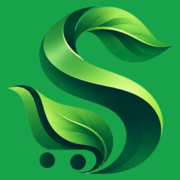
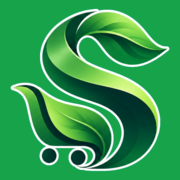
yangi logodagi web app v2

diff --git a/frontend/src/index.css b/frontend/src/index.css
@@ -325,14 +325,9 @@ a.card:hover, button.card:hover { transform: translateY(-2px); box-shadow: var(-
 .app-logo-mark {
   width: 30px;
   height: 30px;
-  border-radius: 9px;
-  background: var(--color-primary);
-  color: #fff;
-  display: flex;
-  align-items: center;
-  justify-content: center;
-  font-family: var(--font-sans);
-  font-weight: 800;
+  object-fit: contain;
+  flex-shrink: 0;
+  display: block;
 }
 .app-location {
   display: flex;
@@ -502,7 +497,7 @@ a.card:hover, button.card:hover { transform: translateY(-2px); box-shadow: var(-
 
 /* --- Auth pages --- */
 .auth-page { max-width: 420px; padding-top: var(--sp-7); }
-.auth-mark { width: 52px; height: 52px; border-radius: 16px; font-size: 1.4rem; margin-bottom: var(--sp-4); }
+.auth-mark { width: 52px; height: 52px; margin-bottom: var(--sp-4); }
 
 /* --- Home: banner --- */
 .home-banner-scroll { display: flex; gap: var(--sp-3); overflow-x: auto; scroll-snap-type: x mandatory; padding-bottom: 2px; }

diff --git a/frontend/src/pages/seller/SellerLayout.jsx b/frontend/src/pages/seller/SellerLayout.jsx
@@ -2,6 +2,7 @@ import { NavLink, Outlet, Link } from 'react-router-dom';
 import { useAuth } from '../../context/AuthContext';
 import { usePreviewNotice } from '../../context/PreviewNoticeContext';
 import { STORE_STATUS_LABELS } from '../../utils/format';
+import logo from '../../assets/logo.png';
 import {
   HomeIcon, PackageIcon, ReceiptIcon, UsersIcon, ChartIcon, SettingsIcon, StoreIcon,
 } from '../../components/Icons';
@@ -21,7 +22,7 @@ export default function SellerLayout() {
     <div className="seller-shell">
       <aside className="seller-sidebar">
         <Link to="/" className="app-logo" style={{ padding: '0 var(--sp-3)', marginBottom: 'var(--sp-4)' }}>
-          <span className="app-logo-mark">S</span>
+          <img src={logo} alt="" className="app-logo-mark" />
           <span className="nav-label-full">SuxonaShop</span>
         </Link>
 

diff --git a/frontend/src/pages/customer/Login.jsx b/frontend/src/pages/customer/Login.jsx
@@ -2,6 +2,7 @@ import { useState } from 'react';
 import { Link, useLocation, useNavigate } from 'react-router-dom';
 import { useAuth } from '../../context/AuthContext';
 import { extractErrorMessage } from '../../api/client';
+import logo from '../../assets/logo.png';
 
 export default function Login() {
   const { login } = useAuth();
@@ -29,7 +30,7 @@ export default function Login() {
 
   return (
     <div className="container page auth-page">
-      <div className="app-logo-mark auth-mark">S</div>
+      <img src={logo} alt="SuxonaShop" className="app-logo-mark auth-mark" />
       <h1>Xush kelibsiz</h1>
       <p style={{ marginBottom: 'var(--sp-5)' }}>Hisobingizga kiring va xaridni davom ettiring.</p>
 

diff --git a/frontend/src/components/Header.jsx b/frontend/src/components/Header.jsx
@@ -4,6 +4,7 @@ import { SearchIcon, BellIcon, PinIcon } from './Icons';
 import { useAuth } from '../context/AuthContext';
 import { usePreviewNotice } from '../context/PreviewNoticeContext';
 import { addressApi } from '../api/endpoints';
+import logo from '../assets/logo.png';
 
 export default function Header() {
   const { user } = useAuth();
@@ -38,7 +39,7 @@ export default function Header() {
     <header className="app-header">
       <div className="container app-header-top">
         <Link to="/" className="app-logo">
-          <span className="app-logo-mark">S</span>
+          <img src={logo} alt="" className="app-logo-mark" />
           <span>SuxonaShop</span>
         </Link>
 

diff --git a/frontend/README.md b/frontend/README.md
@@ -123,17 +123,25 @@ Dastlabki versiyadan keyin, real loyiha sifatida qo'yilishi uchun quyidagilar qo
   bo'lib qolayotgan edi (`object-fit: contain` 24×24 o'lchamda, doira esa
   56×56 — fon rangi atrofida qolib ketardi). Endi rasm doirani to'liq
   qoplaydi (`object-fit: cover`, 100%×100%, `overflow: hidden`).
-- **Loyiha logotipi almashtirildi** — foydalanuvchi tomonidan yuklangan
-  asl logotip (`S` harfi + barg, yashil gradient) `public/` papkasidagi
-  avvalgi vaqtinchalik ikonkalarning o'rnini bosdi: `favicon.ico`
-  (16/32/48px, ko'p o'lchamli), `favicon.png` (32×32, zamonaviy brauzerlar
-  uchun), `icon-192.png`/`icon-512.png` (shaffof fon, PWA "any" maqsadi),
-  `icon-192-maskable.png`/`icon-512-maskable.png` (xavfsiz zonaga mos
-  qo'shimcha hoshiya bilan, fon rangi `#16A34A` — Android maskable ikonkalar
-  uchun) va `apple-touch-icon.png` (180×180, fon `#16A34A` bilan to'ldirilgan,
-  chunki iOS shaffoflikni qora rangga aylantiradi). Eski `favicon.svg` va
-  ishlatilmayotgan `icons.svg` o'chirildi; `manifest.json` va `index.html`
-  shu fayllarga mos yangilandi.
+- **Loyiha logotipi (ikki xil variantda)** — foydalanuvchi yuklagan `S`
+  harfli barg logotipidan endi ikkita alohida asset ishlatiladi:
+  - **Ilova ichida** (yuqori bar, sotuvchi paneli sайдбари, kirish sahifasi)
+    — `src/assets/logo.png`: orqa fonsiz (shaffof), asl rangli logotip.
+    `Header.jsx`, `SellerLayout.jsx` va `Login.jsx`dagi matnli "S"
+    belgisi (`.app-logo-mark`) shu rasmga almashtirildi.
+  - **PWA/favicon uchun** — foydalanuvchi logoning ikkinchi, oq konturli
+    versiyasini yubordi (birinchi versiyada fon ham, logo ham yashil
+    bo'lgani uchun PWA ikonkada kontrast yo'q edi). Shu versiyadan fon
+    olib tashlanib (asl fon — ko'k-yashil/teal rang edi), o'rniga brend
+    rangi `#16A34A` qo'yildi: `favicon.ico` (16/32/48px), `favicon.png`
+    (32×32), `icon-192.png`/`icon-512.png` (shaffof fon, PWA "any"
+    maqsadi — oq kontur tufayli istalgan fonga mos keladi),
+    `icon-192-maskable.png`/`icon-512-maskable.png` (xavfsiz zonaga mos
+    qo'shimcha hoshiya + yashil fon bilan to'liq to'ldirilgan, oq kontur
+    endi logoni fondan aniq ajratib turadi) va `apple-touch-icon.png`
+    (180×180, yashil fon bilan — iOS shaffoflikni qora rangga aylantiradi).
+  - Eski `favicon.svg` va ishlatilmayotgan `icons.svg` o'chirilgan edi;
+    `manifest.json` va `index.html` shu fayllarga mos.
 
 ## Nima UI-only (backendga ulanmagan)
 
